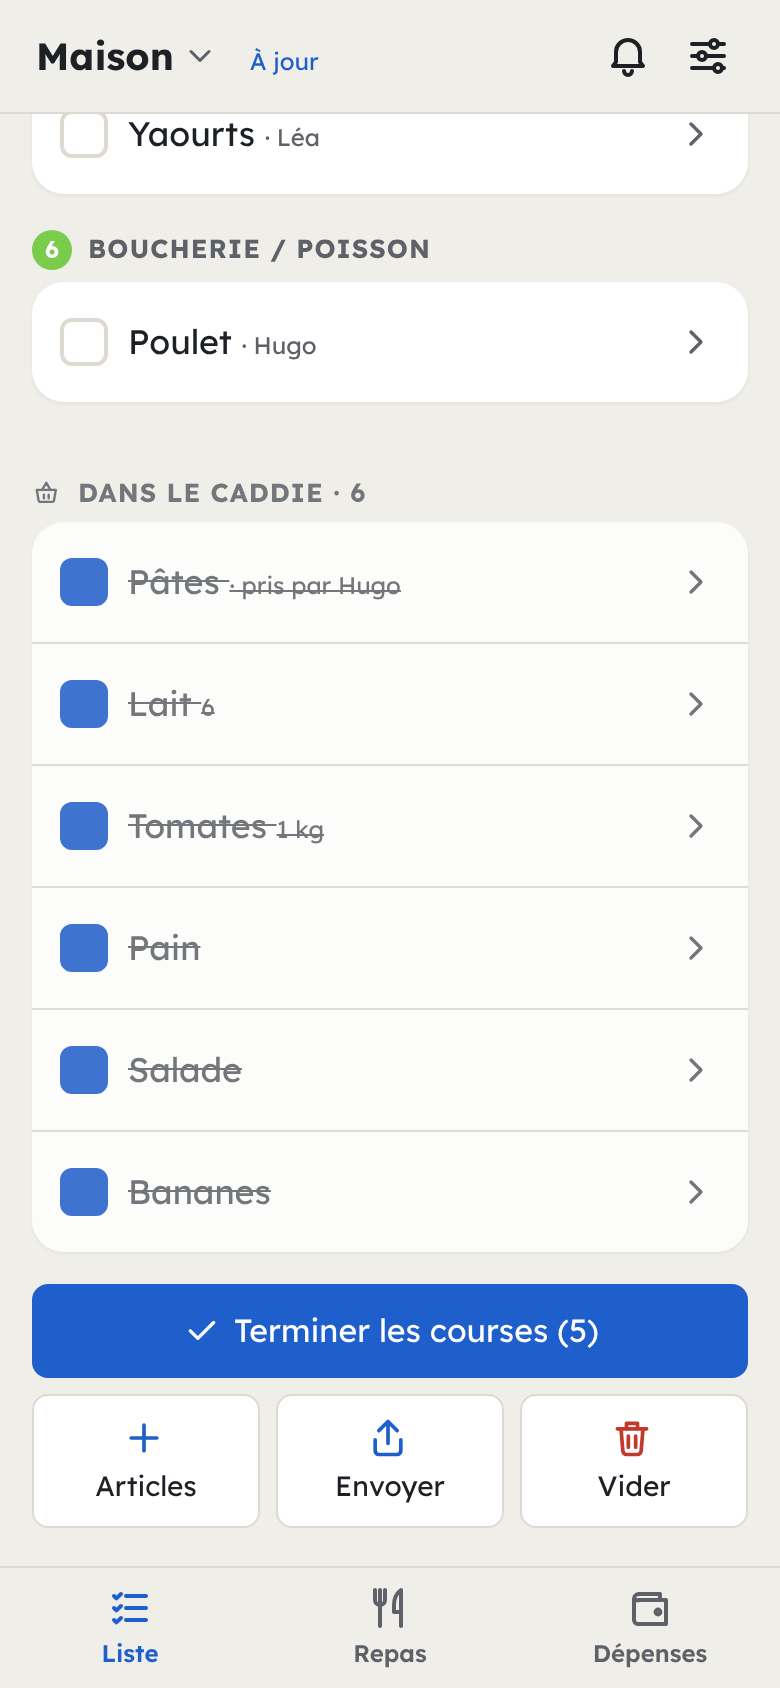
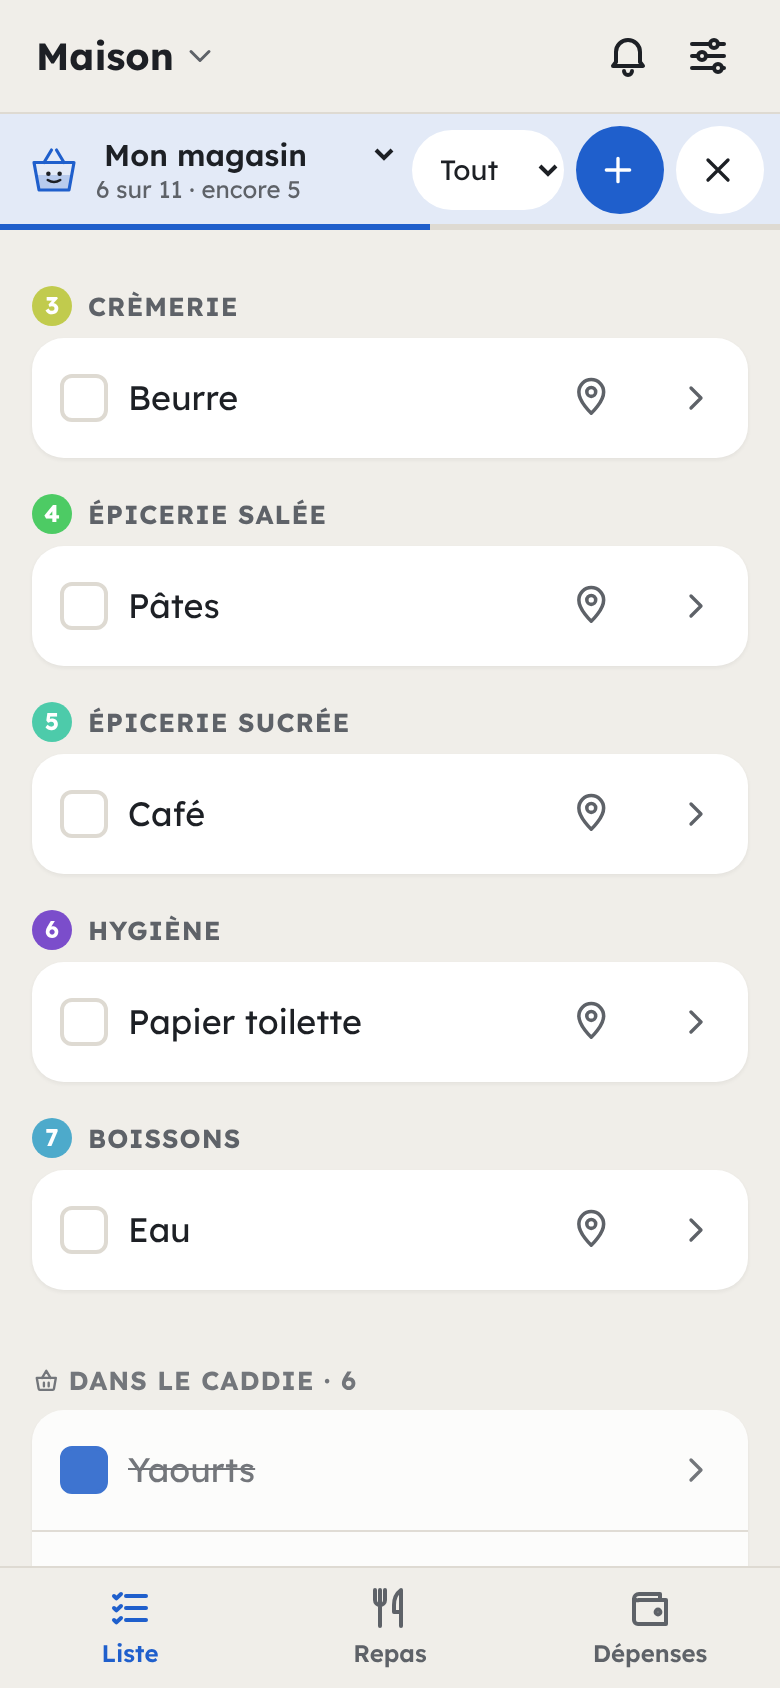
Vitrine : captures de l'app actuelle, étapes mises à jour, tuile « Un mot suffit »
Claude-Session: https://claude.ai/code/session_01SiHv4QfjJWdhQvUqqUhVEC

diff --git a/site/index.html b/site/index.html
@@ -4,7 +4,7 @@
   <meta charset="utf-8">
   <meta name="viewport" content="width=device-width, initial-scale=1, viewport-fit=cover">
   <title>Courses</title>
-  <meta name="description" content="La liste de courses partagée du foyer : chacun ajoute depuis son téléphone, et au magasin tout est rangé par rayon, même sans réseau. Gratuite, sans compte.">
+  <meta name="description" content="La liste de courses partagée du foyer : chacun ajoute depuis son téléphone, un mot appelle un panier ou une recette, et au magasin tout est rangé par rayon, même sans réseau. Gratuite, sans compte.">
   <meta property="og:title" content="Courses">
   <meta property="og:description" content="La liste de courses partagée du foyer, rangée par rayons, même sans réseau.">
   <meta property="og:image" content="img/liste.png">
@@ -54,10 +54,10 @@
         <div>
           <h2 class="flow-intro">Une semaine<br>de courses.</h2>
           <div class="steps">
-            <div class="step on"><div class="n">1 · Dans la semaine</div><h3>On remplit la liste à plusieurs.</h3><p>Chacun ajoute ce qui manque. Tout se range par rayon.</p><img class="shot-sm" src="img/liste.png" alt="La liste rangée par rayons" loading="lazy"></div>
-            <div class="step"><div class="n">2 · Samedi matin</div><h3>« J'y vais » lance le circuit.</h3><p>Les rayons dans l'ordre du magasin. À deux, chacun sa moitié.</p><img class="shot-sm" src="img/magasin.png" alt="Le circuit dans le magasin" loading="lazy"></div>
-            <div class="step"><div class="n">3 · Dans les rayons</div><h3>On coche, l'autre le voit.</h3><p>Personne ne prend deux fois la même chose. Même sans réseau.</p><img class="shot-sm" src="img/caddie.png" alt="Les articles dans le caddie" loading="lazy"></div>
-            <div class="step"><div class="n">4 · À la caisse</div><h3>Le ticket rejoint le budget.</h3><p>Budget commun en couple, ou dépenses partagées : qui a payé, qui doit combien.</p><img class="shot-sm" src="img/partage.png" alt="Le partage des dépenses" loading="lazy"></div>
+            <div class="step on"><div class="n">1 · Dans la semaine</div><h3>On remplit la liste à plusieurs.</h3><p>Chacun ajoute ce qui manque, tout se range par rayon. Un mot appelle un panier, une recette ou un rayon entier.</p><img class="shot-sm" src="img/liste.png" alt="La liste rangée par rayons" loading="lazy"></div>
+            <div class="step"><div class="n">2 · Samedi matin</div><h3>« J'y vais » lance le circuit.</h3><p>Les rayons dans l'ordre du magasin, la liste en plein écran. Un doute ? Le rayon s'allume sur le plan. À deux, chacun sa moitié.</p><img class="shot-sm" src="img/magasin.png" alt="Le circuit dans le magasin, le rayon du lait allumé sur le plan" loading="lazy"></div>
+            <div class="step"><div class="n">3 · Dans les rayons</div><h3>On coche, l'autre le voit.</h3><p>Le panier se remplit à l'écran, personne ne prend deux fois la même chose. Même sans réseau.</p><img class="shot-sm" src="img/caddie.png" alt="Les articles dans le caddie" loading="lazy"></div>
+            <div class="step"><div class="n">4 · À la caisse</div><h3>Le ticket rejoint le budget.</h3><p>Budget commun en couple, ou dépenses partagées : qui a payé, qui doit combien. L'historique mois par mois s'exporte dans un tableur.</p><img class="shot-sm" src="img/partage.png" alt="Le partage des dépenses" loading="lazy"></div>
           </div>
         </div>
       </div>
@@ -66,8 +66,15 @@
     <section class="more">
       <div class="wrap">
         <div class="bento">
+          <div class="tile w2">
+            <div><h3>Un mot suffit</h3><p>« bébé » appelle le panier, « pizza » la recette, « crèmerie » tout le rayon. Et ce qui revient chaque semaine se propose tout seul.</p></div>
+            <div class="ui">
+              <div class="field-ui">bé<i></i></div>
+              <div class="chips-ui"><span><b class="bk"></b>Bébé <small>3</small></span><span>Beurre</span><span class="soft">↻ Litière</span><span class="soft">↻ Café</span><span class="soft">Reprendre la dernière liste</span></div>
+            </div>
+          </div>
           <div class="tile">
-            <div><h3>Les repas de la semaine</h3><p>Les ingrédients sur la liste en un geste. Une centaine d'idées.</p></div>
+            <div><h3>Les repas de la semaine</h3><p>Les ingrédients sur la liste en un geste. 130 idées de recettes.</p></div>
             <div class="ui">
               <div class="week">
                 <div class="today"><b>Mar</b>Croque-monsieur</div>
@@ -86,7 +93,7 @@
               <div class="owe"><span>Hugo doit 56,87 € à Léa</span><em>Remboursé</em></div>
             </div>
           </div>
-          <div class="tile blue">
+          <div class="tile blue w2">
             <div><h3>Même sans réseau</h3><p>Au fond du magasin, tout marche. Ça se synchronise en sortant.</p></div>
             <div class="ui"><span class="status" id="netStatus"><i></i><span>Hors ligne · 3 en attente</span></span></div>
           </div>

diff --git a/site/site.css b/site/site.css
@@ -144,6 +144,14 @@ section { padding: 120px 0; }
 .owe { display: flex; justify-content: space-between; align-items: center; gap: 10px; background: var(--bg); border-radius: 14px; padding: 12px 14px; font-size: 14px; margin-top: 10px; }
 .owe em { font-style: normal; color: var(--accent); font-weight: 600; }
 .small-muted { font-size: 13px; color: var(--muted); }
+.field-ui { background: var(--bg); border-radius: 99px; padding: 12px 16px; font-size: 15px; display: flex; align-items: center; }
+.field-ui i { width: 2px; height: 18px; background: var(--accent); margin-left: 1px; animation: caret 1s steps(1) infinite; }
+@keyframes caret { 50% { opacity: 0; } }
+.chips-ui { display: flex; flex-wrap: wrap; gap: 8px; margin-top: 12px; font-size: 14px; }
+.chips-ui span { background: var(--bg); border-radius: 99px; padding: 8px 14px; display: inline-flex; align-items: center; gap: 6px; }
+.chips-ui span.soft { color: var(--muted); }
+.chips-ui small { color: var(--muted); font-size: 12px; }
+.chips-ui .bk { width: 10px; height: 10px; border-radius: 3px; background: var(--accent); }
 .status { display: inline-flex; align-items: center; gap: 8px; align-self: flex-start; background: rgba(255, 255, 255, .16); border-radius: 99px; padding: 10px 16px; font-size: 14px; font-weight: 600; }
 .status i { width: 9px; height: 9px; border-radius: 50%; background: #ffb86b; }
 .status.ok i { background: #7ee0a2; }

diff --git a/docs/besoins.md b/docs/besoins.md
@@ -93,6 +93,7 @@ La colonne de droite indique où c'est **aujourd'hui** (les premières demandes 
 | 60 | Mode « J'y vais » : maximiser la liste | Bandeau d'une ligne collé sous l'en-tête : panier, magasin, « 1 sur 8 », menu Tout / Début / Fin, + (ouvre le champ d'ajout, refermé après l'ajout), ✕ (arrêter), fine barre de progression ; plan via le 📍 des articles ; choix du circuit dans Réglages > Plan du magasin |
 | 61 | Un « . » (double espace) dans le champ d'ajout : retrouver produits, paniers, recettes | « .bébé », « bébé. » (double espace de l'iPhone) ou deux espaces en tête : propositions Paniers / Recettes / Articles ; « . » seul liste tous les paniers et recettes ; toucher un panier ou une recette ouvre sa fenêtre (décocher ce qu'on a) ; Entrée prend le premier trouvé, sans créer d'article |
 | 62 | Appeler paniers, recettes et rayons par leur nom | Dans le champ de la Liste et de Mes articles, dès 2 lettres (sans « . ») : paniers, recettes (même vides : ouverts pour être remplis) et rayons/commerces ; un rayon ouvre tous ses articles à cocher ; « . » ajoute les idées de recettes de la bibliothèque ; version de l'app affichée en bas des Réglages |
+| 63 | Revoir la page vitrine | Captures refaites depuis l'app actuelle (liste, « J'y vais » avec le plan sous un article, caddie qui se remplit) ; textes des 4 étapes mis à jour (un mot appelle panier/recette/rayon, plan, export par mois) ; nouvelle tuile « Un mot suffit » ; 130 idées |
 | 37 | Mode partagé : **attribuer une part à un participant** (modifiable) | Fiche Ticket > Hors partage : « X € pour [membre] », plusieurs parts |
 
 ## 4. Décisions prises
